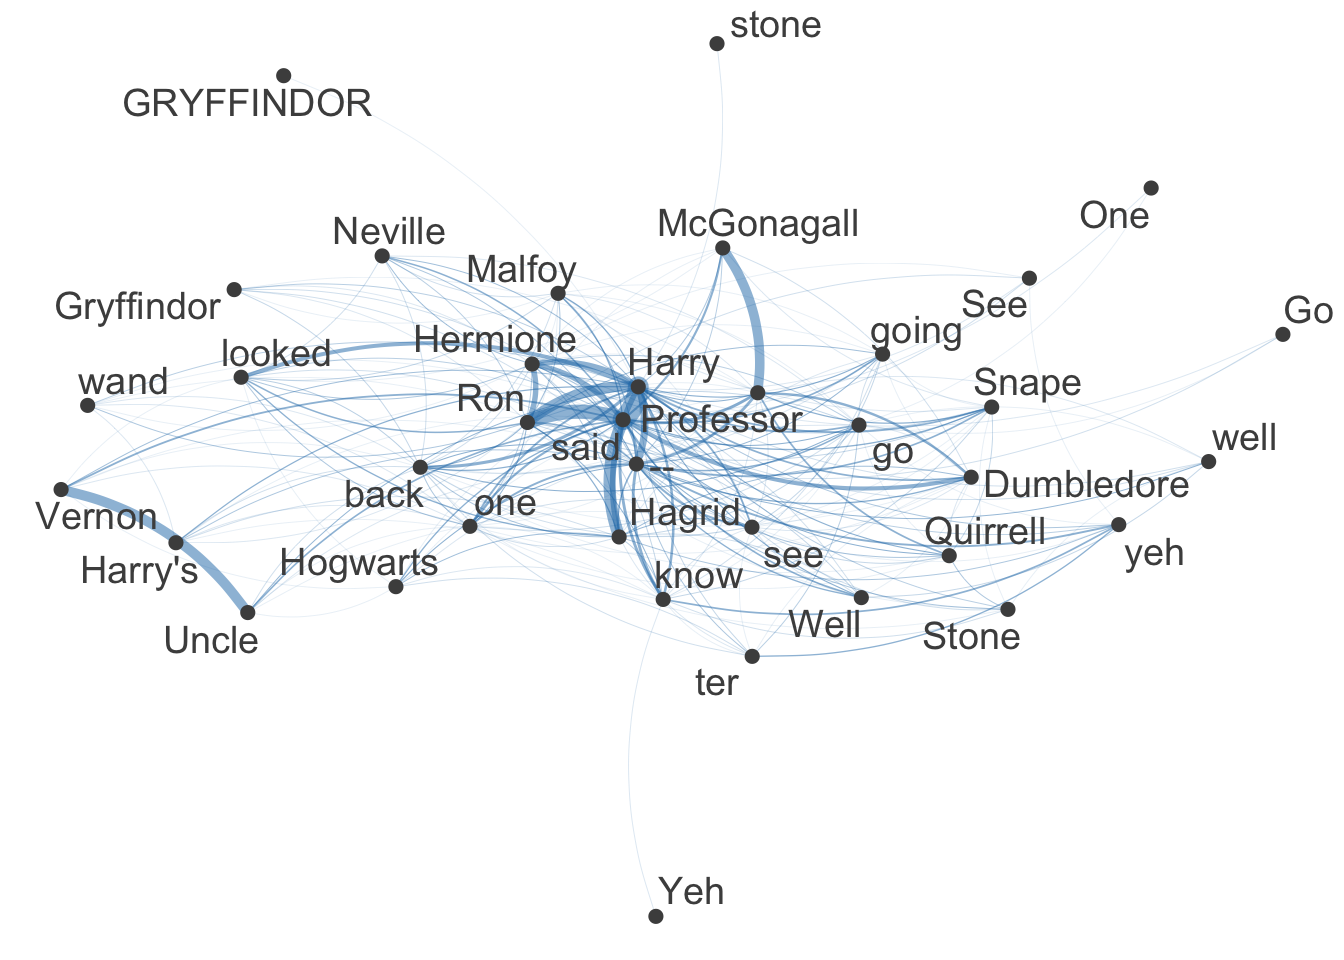
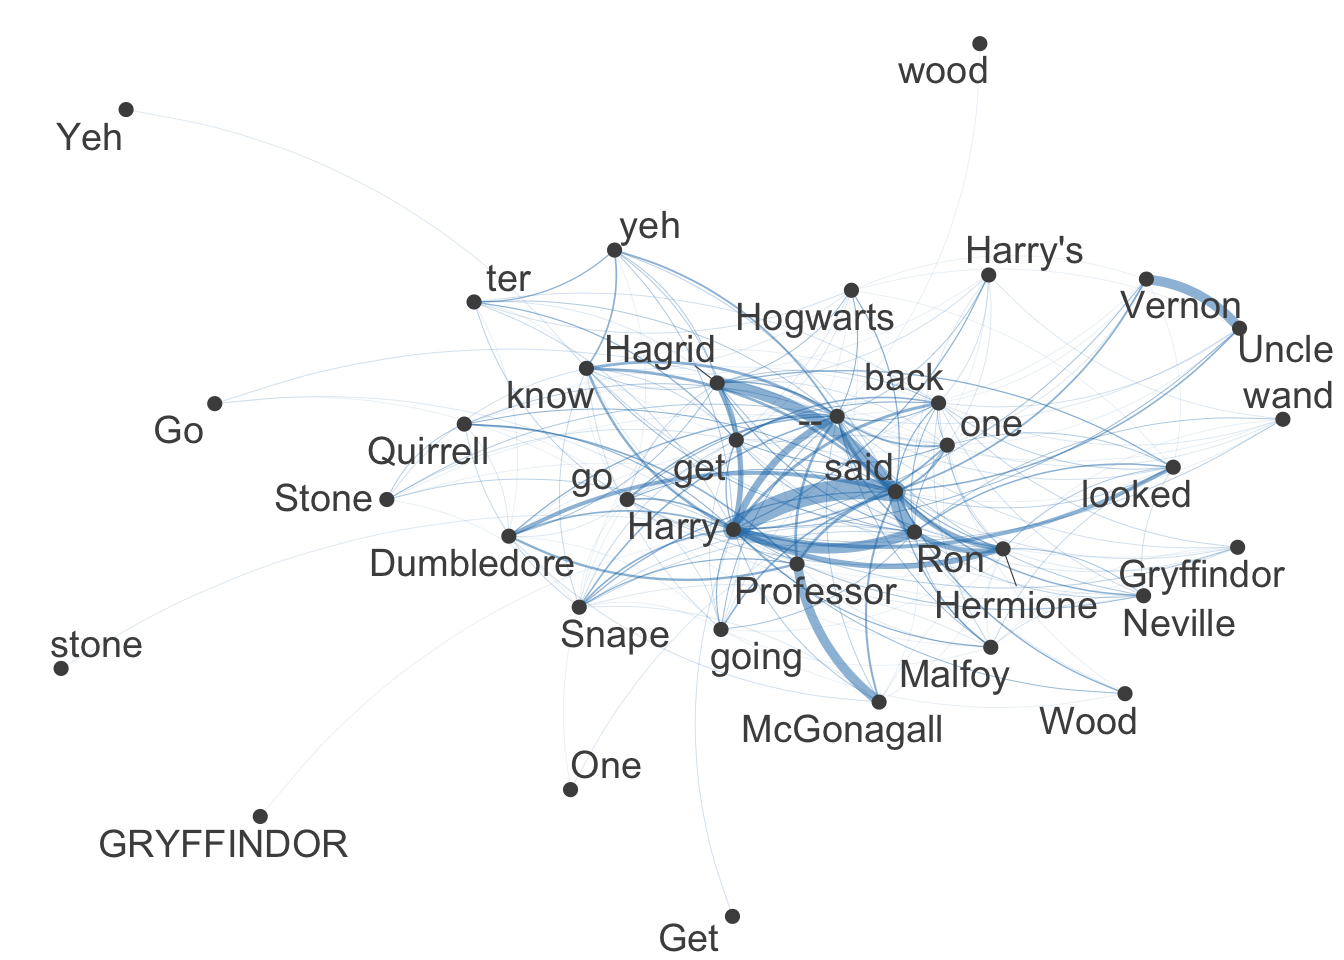
Minor change in tutorial 6

diff --git a/docs/Tutorial6.html b/docs/Tutorial6.html
@@ -551,7 +551,7 @@ docs    lived mrs dursley number privet drive proud perfectly normal thank
 <span id="cb37-2"><a href="#cb37-2" aria-hidden="true" tabindex="-1"></a>size <span class="ot">&lt;-</span> <span class="fu">log</span>(<span class="fu">colSums</span>(even_smaller_fcm))</span>
 <span id="cb37-3"><a href="#cb37-3" aria-hidden="true" tabindex="-1"></a></span>
 <span id="cb37-4"><a href="#cb37-4" aria-hidden="true" tabindex="-1"></a><span class="co"># create plot</span></span>
-<span id="cb37-5"><a href="#cb37-5" aria-hidden="true" tabindex="-1"></a><span class="fu">textplot_network</span>(even_smaller_fcm, <span class="at">vertex_size =</span> size <span class="sc">/</span> <span class="fu">max</span>(size) <span class="sc">*</span> <span class="dv">3</span>)</span></code><button title="Copy to Clipboard" class="code-copy-button"><i class="bi"></i></button></pre></div>
+<span id="cb37-5"><a href="#cb37-5" aria-hidden="true" tabindex="-1"></a><span class="fu">textplot_network</span>(even_smaller_fcm, <span class="at">vertex_size =</span> size<span class="sc">/</span> <span class="fu">max</span>(size) <span class="sc">*</span> <span class="dv">3</span>)</span></code><button title="Copy to Clipboard" class="code-copy-button"><i class="bi"></i></button></pre></div>
 <div class="cell-output-display">
 <p><img src="Tutorial6_files/figure-html/unnamed-chunk-17-1.png" class="img-fluid" width="672"></p>
 </div>
@@ -565,9 +565,10 @@ docs    lived mrs dursley number privet drive proud perfectly normal thank
 <span id="cb38-5"><a href="#cb38-5" aria-hidden="true" tabindex="-1"></a>book1_token <span class="ot">&lt;-</span> <span class="fu">tokens_select</span>(book1_token,</span>
 <span id="cb38-6"><a href="#cb38-6" aria-hidden="true" tabindex="-1"></a>                     <span class="at">pattern =</span> <span class="fu">stopwords</span>(<span class="st">"en"</span>),</span>
 <span id="cb38-7"><a href="#cb38-7" aria-hidden="true" tabindex="-1"></a>                     <span class="at">selection =</span> <span class="st">"remove"</span>)</span>
-<span id="cb38-8"><a href="#cb38-8" aria-hidden="true" tabindex="-1"></a>try_fcm <span class="ot">&lt;-</span> <span class="fu">fcm</span>(book1_token,<span class="at">context =</span> <span class="st">"window"</span>, <span class="at">window=</span><span class="dv">2</span>)</span>
-<span id="cb38-9"><a href="#cb38-9" aria-hidden="true" tabindex="-1"></a></span>
-<span id="cb38-10"><a href="#cb38-10" aria-hidden="true" tabindex="-1"></a>try_fcm</span></code><button title="Copy to Clipboard" class="code-copy-button"><i class="bi"></i></button></pre></div>
+<span id="cb38-8"><a href="#cb38-8" aria-hidden="true" tabindex="-1"></a></span>
+<span id="cb38-9"><a href="#cb38-9" aria-hidden="true" tabindex="-1"></a>try_fcm <span class="ot">&lt;-</span> <span class="fu">fcm</span>(book1_token,<span class="at">context =</span> <span class="st">"window"</span>, <span class="at">window=</span><span class="dv">2</span>)</span>
+<span id="cb38-10"><a href="#cb38-10" aria-hidden="true" tabindex="-1"></a></span>
+<span id="cb38-11"><a href="#cb38-11" aria-hidden="true" tabindex="-1"></a>try_fcm</span></code><button title="Copy to Clipboard" class="code-copy-button"><i class="bi"></i></button></pre></div>
 <div class="cell-output cell-output-stdout">
 <pre><code>Feature co-occurrence matrix of: 6,667 by 6,667 features.
          features
@@ -584,9 +585,9 @@ features  BOY LIVED Mr Mrs Dursley number four Privet Drive proud
   proud     0     0  0   0       0      0    0      0     0     0
 [ reached max_feat ... 6,657 more features, reached max_nfeat ... 6,657 more features ]</code></pre>
 </div>
-<div class="sourceCode cell-code" id="cb40"><pre class="sourceCode r code-with-copy"><code class="sourceCode r"><span id="cb40-1"><a href="#cb40-1" aria-hidden="true" tabindex="-1"></a>book1_Features <span class="ot">&lt;-</span> <span class="fu">names</span>(<span class="fu">topfeatures</span>(try_fcm, <span class="dv">50</span>))</span>
+<div class="sourceCode cell-code" id="cb40"><pre class="sourceCode r code-with-copy"><code class="sourceCode r"><span id="cb40-1"><a href="#cb40-1" aria-hidden="true" tabindex="-1"></a>book1_Features <span class="ot">&lt;-</span> <span class="fu">names</span>(<span class="fu">topfeatures</span>(try_fcm, <span class="dv">30</span>))</span>
 <span id="cb40-2"><a href="#cb40-2" aria-hidden="true" tabindex="-1"></a></span>
-<span id="cb40-3"><a href="#cb40-3" aria-hidden="true" tabindex="-1"></a>book1_small_fcm <span class="ot">&lt;-</span> <span class="fu">fcm_select</span>(try_fcm, <span class="at">pattern =</span> myFeatures, <span class="at">selection =</span> <span class="st">"keep"</span>)</span>
+<span id="cb40-3"><a href="#cb40-3" aria-hidden="true" tabindex="-1"></a>book1_small_fcm <span class="ot">&lt;-</span> <span class="fu">fcm_select</span>(try_fcm, <span class="at">pattern =</span> book1_Features, <span class="at">selection =</span> <span class="st">"keep"</span>)</span>
 <span id="cb40-4"><a href="#cb40-4" aria-hidden="true" tabindex="-1"></a></span>
 <span id="cb40-5"><a href="#cb40-5" aria-hidden="true" tabindex="-1"></a><span class="fu">textplot_network</span>(book1_small_fcm, <span class="at">vertex_size =</span> <span class="dv">2</span>)</span></code><button title="Copy to Clipboard" class="code-copy-button"><i class="bi"></i></button></pre></div>
 <div class="cell-output-display">
